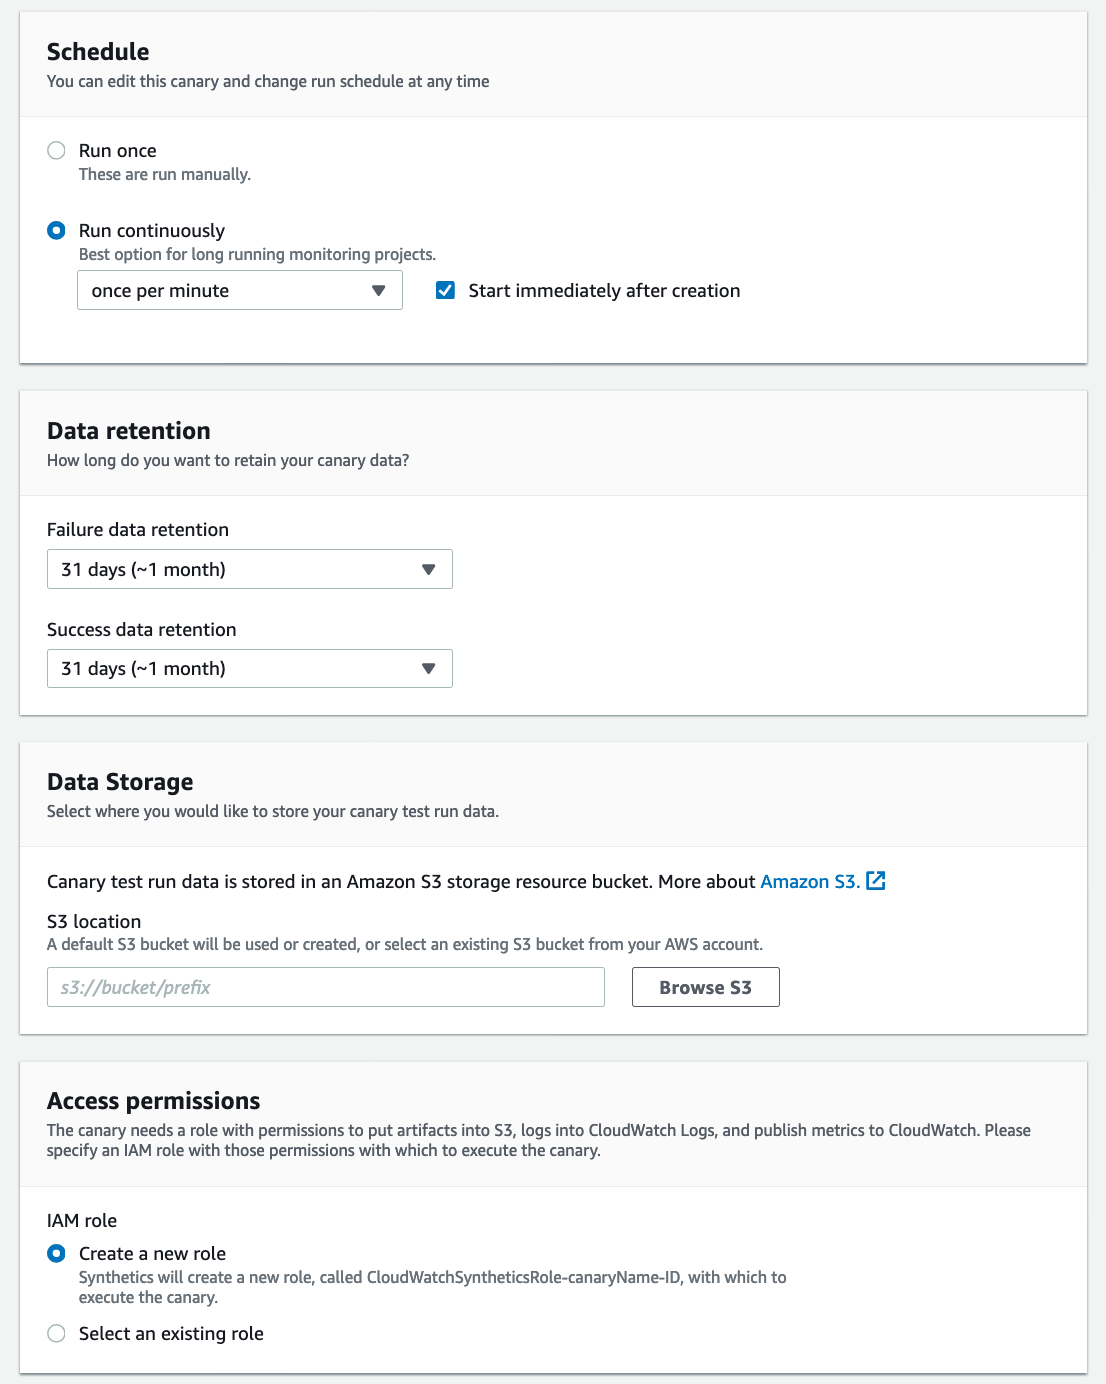
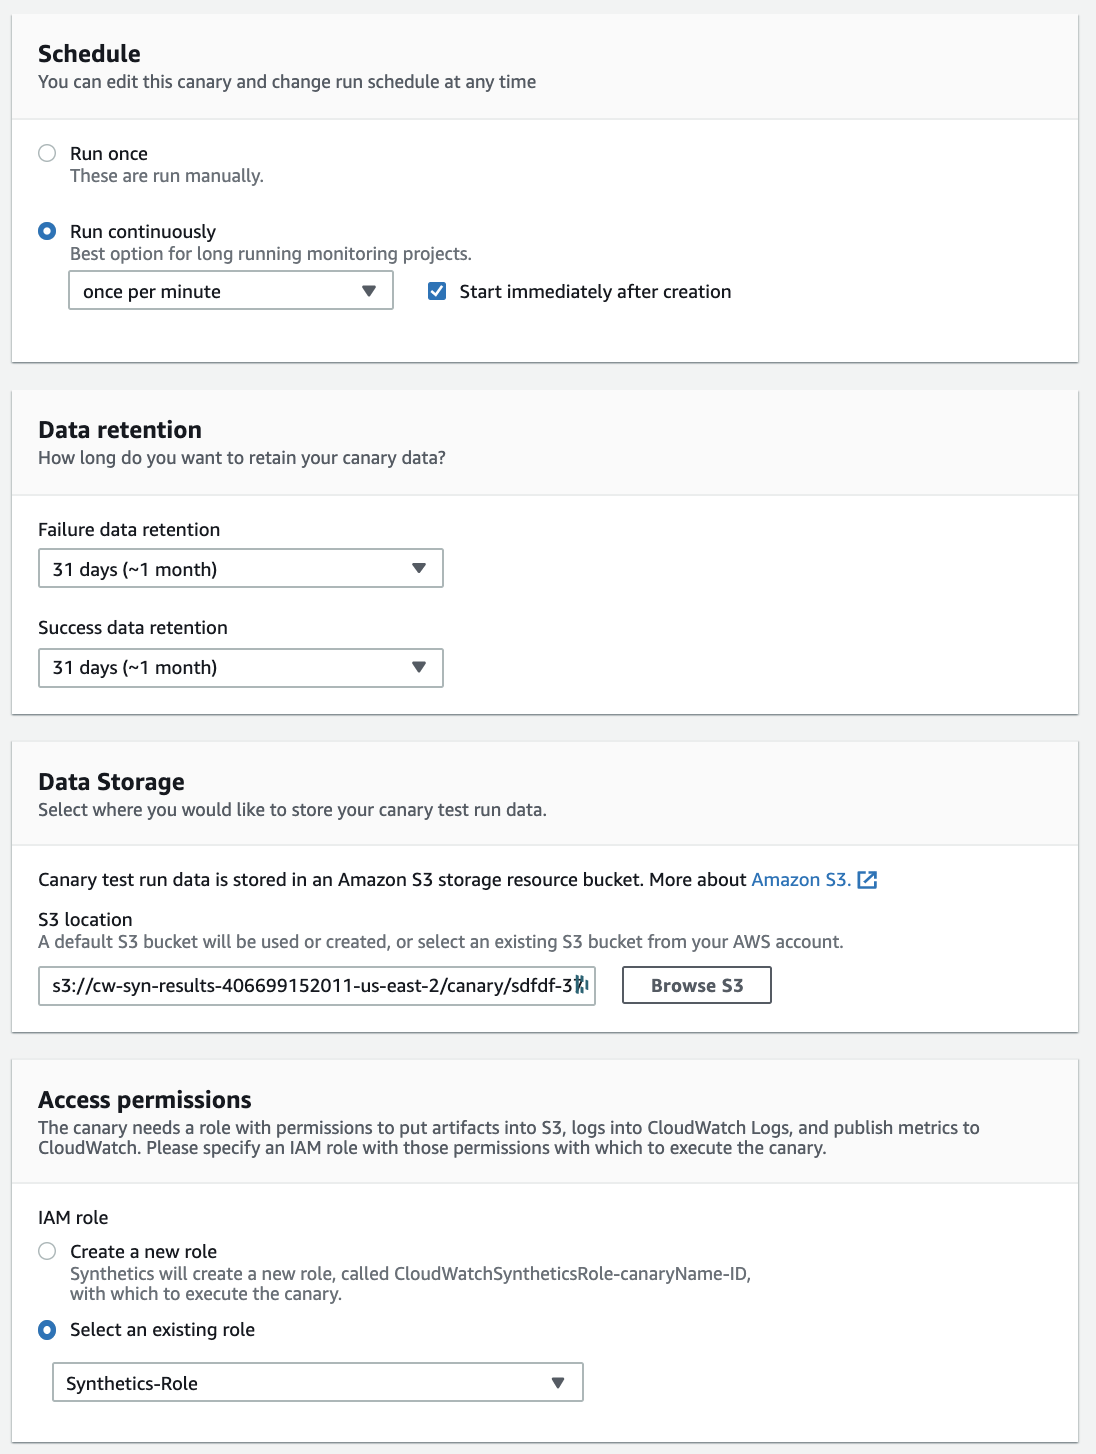
New changes

diff --git a/index.md b/index.md
@@ -17,10 +17,10 @@ Navigate to the link, enter random text in firstname, lastname and address field
 8. Choose **once per minute** under **Run continuously** drop down. Ensure **Start immediately after creation** checkbox is checked
 ![Choose options](images/3.png)
 9. Leave **Data retention** option as it is
-10. Under **Data Storage**, select an S3 bucket that you want the file to be uploaded to and Canary result data to be stored.
-11. Under **Access permissions**, select **Create a new role** which will create a new IAM role for Canary execution.
+10. Under **Data Storage**, you should see an S3 bucket already chosen for you. Leave it as it is.
+11. Under **Access permissions**, select **Select an existing role** and select **Synthetics-Role**
 12. Click **Create canary**
-13. Wait for a minute or so for the Canary to start and execute. 
+13. Wait for a minute or so for the Canary to start and execute
 
 # Explore Canary results
 1. Navigate to [Canaries home page](https://console.aws.amazon.com/cloudwatch/home#synthetics:canary/list)
